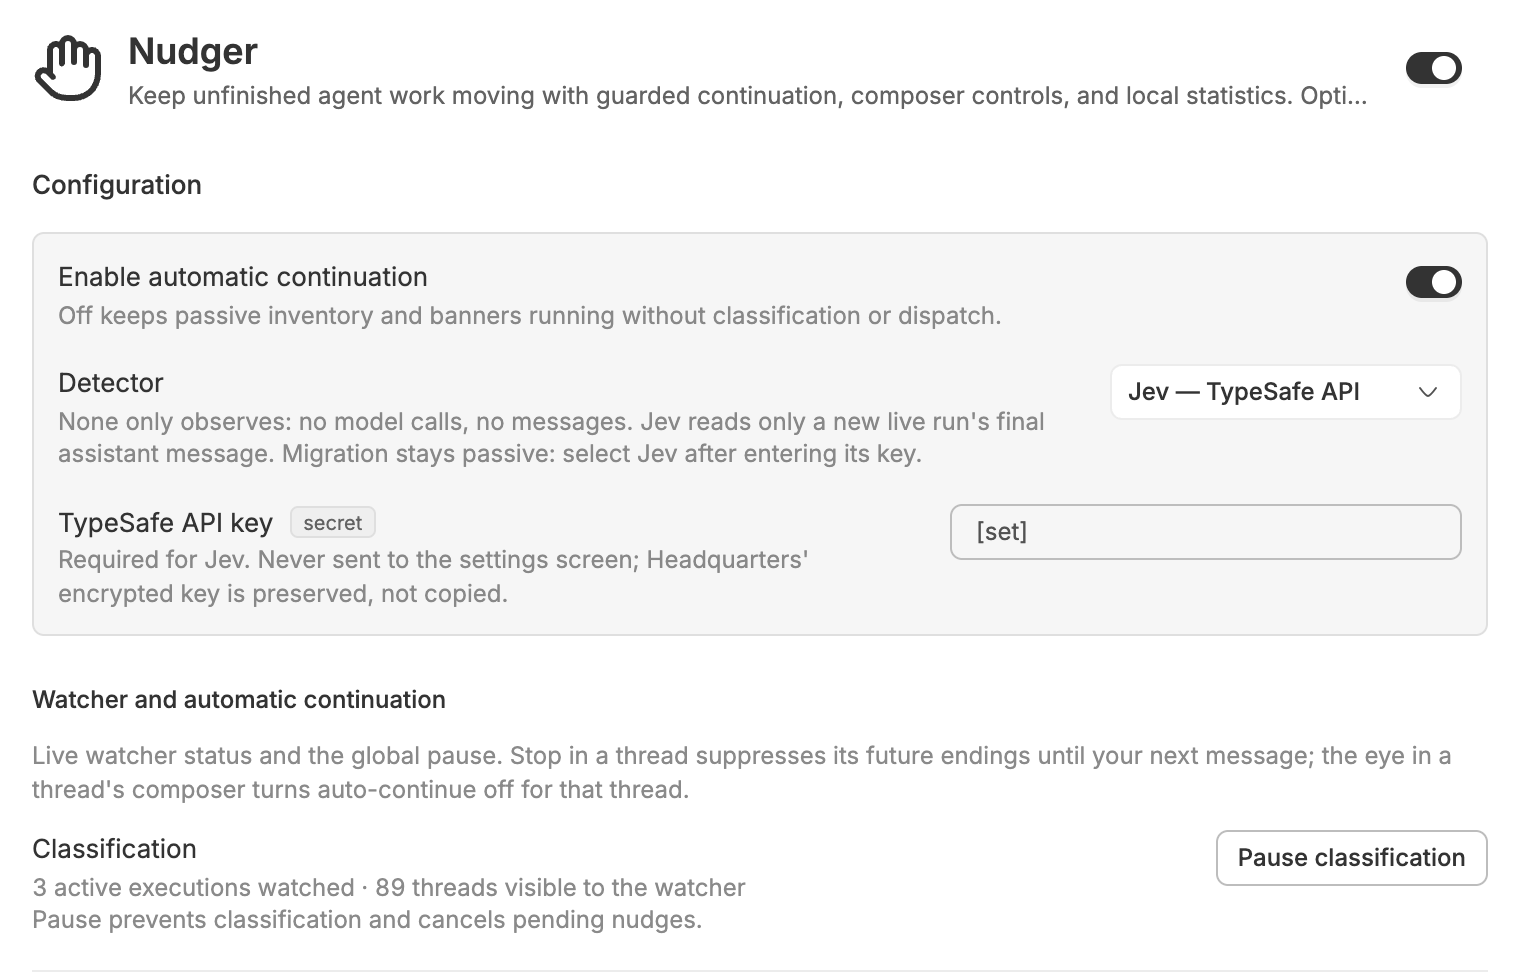
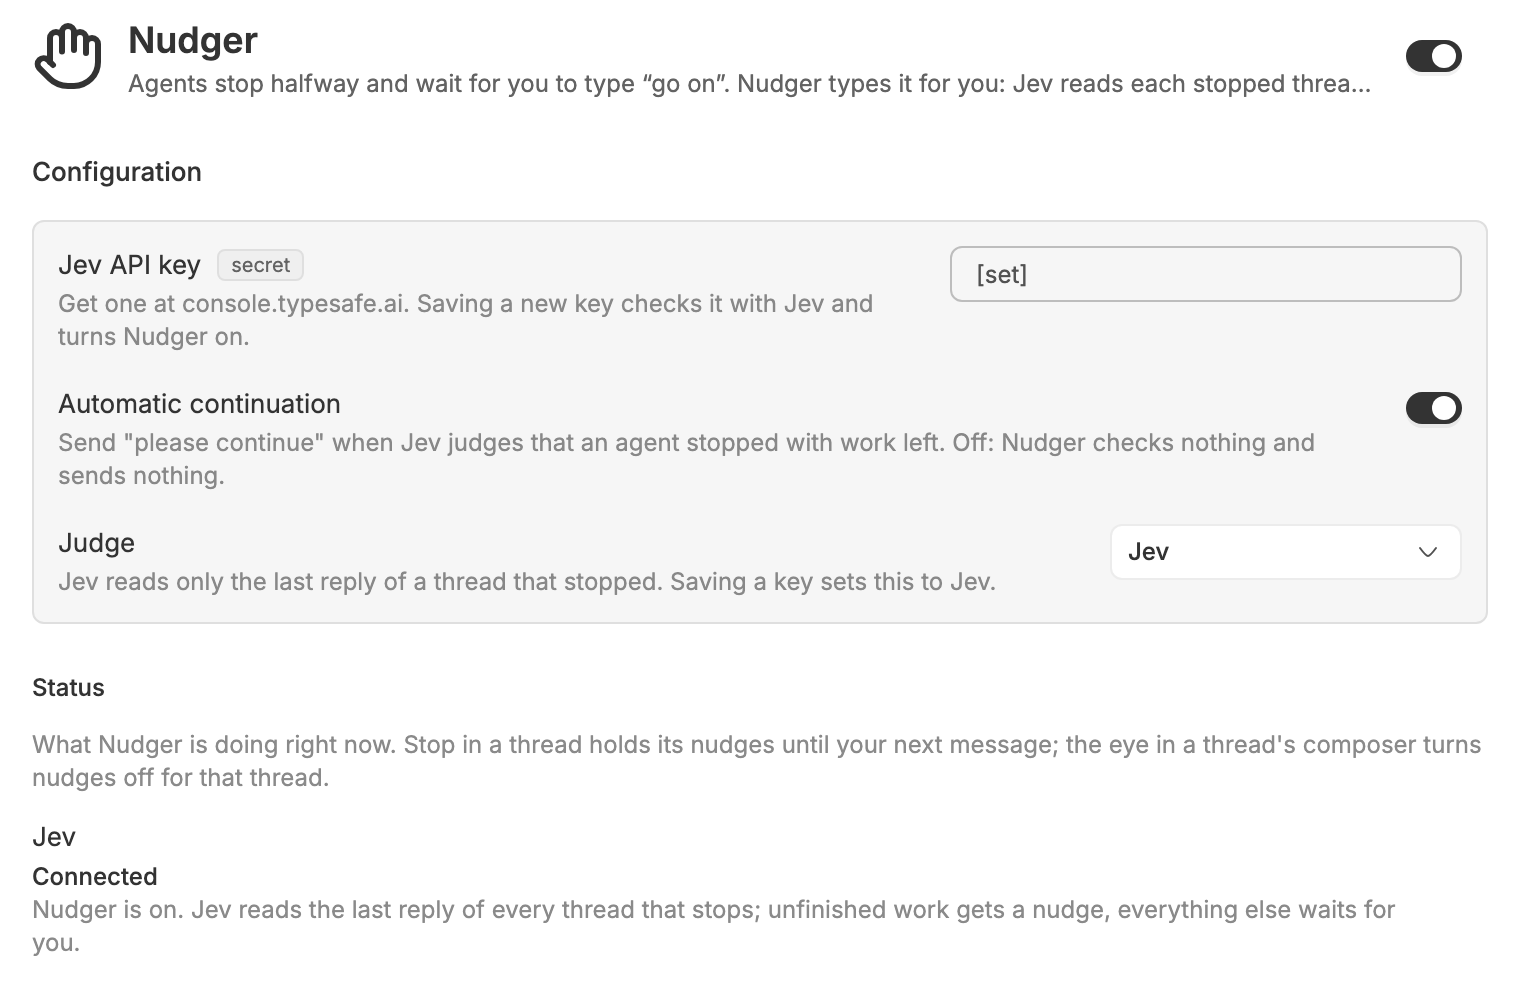
Update nudger to 0.1.1: auto-activates with a Jev key; new store text and settings screenshot

diff --git a/overview/nudger.md b/overview/nudger.md
@@ -1,34 +1,36 @@
-Watch native BB threads, see what needs attention, and optionally let an assistant continue unfinished work with guarded `please continue` messages. Nudger is standalone: Headquarters, Hermes, and a machine connection are not required.
+Your agents stop halfway. “Want me to continue?” “Next I'll wire up the tests.” Then the thread sits idle until you come back and type “go on”. Nudger types it for you, but only when the work is really unfinished.
 
-Requires BB >=0.46 and Plugin SDK >=0.6.39. Package: `bb-plugin-nudger`; installed ID: `nudger`; CLI: `bb nudger`. Source installation and developer details are in README.md.
+## What it does
 
-## Safe default: observe only
+Nudger watches every thread. When an agent stops, [Jev](https://typesafe.ai) reads the last reply and judges what kind of stop it is:
 
-The detector defaults to **None — observe only**. Inventory, composer banners, and local statistics need no API key, make no model calls, and send no automatic messages. Adding a key or importing legacy settings does not enable Jev; select it explicitly.
+- **Unfinished work** the agent can do itself: Nudger sends `please continue` after a 20-second countdown you can cancel.
+- **A real blocker**, like a missing credential or a broken service: no nudge, it goes on your list.
+- **A request for you**: permission, a decision, a review. Never continued, always shown to you.
+- **Done**: left alone.
 
-## Enable Jev (optional paid service)
+Only the first gets a nudge. Each thread's banner shows what Nudger decided, and the Nudger page lists every thread that needs you, so you see at a glance where to look. When Jev isn't sure, Nudger doesn't guess: the thread lands on that list. If the agent handed the work to a subthread, a workflow or a running build, Nudger waits for it, and checks in after 30 minutes only if nothing reports back.
 
-1. Create or sign in to **your own TypeSafe account** at [console.typesafe.ai](https://console.typesafe.ai), obtain your own API key, and arrange credits/billing there. No account, key, or credits are bundled.
-2. Open **Settings → Installed plugins → Nudger** in BB.
-3. Enter the key in the **TypeSafe API key** secret setting. Never put it in a chat or source file.
-4. Explicitly choose **Detector → Jev — TypeSafe API**. **Enable automatic continuation** must be on for classification and dispatch.
+## How it uses Jev
 
-A missing/invalid key, exhausted credits, service error, or malformed judgment does **not** trigger a blind continuation. The affected ending stays gated or becomes an error. There is no fallback detector. Only newly observed eligible live endings are checked; startup/resume do not replay a backlog.
+Jev is TypeSafe's System One model. It writes no text: it answers typed questions with a probability for every option and a confidence score. Nudger sends the last reply with five fixed questions: is anything blocking, is the work finished, does the reply ask you for something, who acts next, and what's at stake.
 
-## Controls and safety
+Nudger acts only when Jev is confident. A nudge needs at least 90% confidence that the work is unfinished and nothing blocks it, and a reply that asks you for anything is never continued. A failed call, a rejected key or an unreadable answer never becomes a blind nudge. Every decision is kept for up to 30 days with Jev's answers and the reason, so you can see why Nudger nudged or held back (`bb nudger decisions` exports them).
 
-The composer eye toggles continuation for one thread; countdown Cancel cancels one decision. Global disable keeps passive observation running. Pause classification persists and cancels pending nudges. Native Stop stays suppressive until admitted human work re-arms the thread.
+## Set up
 
-Jev checks the final assistant message as untrusted data. Requests to the operator are never automatically continued. Eligible unfinished assistant work gets a 20-second countdown. Work already running in a delegated task gets a check-in after 30 minutes, doubling for unanswered nudges. New activity cancels the timer; three unanswered nudges suppress further continuation until something else arrives.
+1. Get an API key at [console.typesafe.ai](https://console.typesafe.ai/keys).
+2. Paste it in **Settings → Installed plugins → Nudger → Jev API key**.
+3. Done. Nudger checks the key with Jev and turns itself on.
 
-Running subthreads, workflows, and compaction hold continuation. Dispatch rechecks current thread state; queued owned messages are withheld/deleted rather than sent unchecked. A model verdict cannot authorize a new assignment, permission, spend, or publication. BB's dispatch hook is not an atomic core fence for Stop/queue races; Nudger does not claim to remove that upstream limitation.
+## Your controls
+
+- The eye in a thread's composer turns nudges off for that thread; **Cancel** stops one countdown.
+- Pressing Stop holds a thread's nudges until your next message.
+- **Pause** stops all checks for a while. **Automatic continuation** turns Nudger off; it stays off until you turn it back on or save a new key.
 
 ## Privacy and cost
 
-Jev sends eligible **final assistant messages** and classification questions over HTTPS to TypeSafe (`api.typesafe.ai`), not the full thread history. Final replies may still quote sensitive data. Enable it only for data you may share externally, and review TypeSafe's own privacy, retention, and billing terms. Calls may incur charges; Nudger's cost estimate is not a bill or live credit balance.
+Jev sees only the last reply of a stopped thread, sent over HTTPS to TypeSafe, never the rest of the conversation. A reply can still quote code or secrets, so use Nudger only for work you may share with TypeSafe. TypeSafe bills Jev per input token ($0.042 per million); the Nudger page shows your estimated spend. Decisions stay in BB's local plugin storage on your machine.
 
-Local decision logs can contain message text, identifiers, judgments, and labels for up to 30 days, subject to storage caps; selected history/counts remain longer. The Stats page shows nudges, estimated Jev usage/cost, and attention items, caching displayed titles/summaries on this device for up to 7 days. JSONL exports may contain sensitive information: redact before sharing.
-
-## Optional Headquarters integration
-
-Public versioned RPC excludes Headquarters control threads and shares snapshots/history without exposing settings or keys. Legacy migration is copy-only: it never activates old timers, enables paid classification, or copies credentials. No private database access is required. Integrators import the single schema/type source from `bb-plugin-nudger/contract` (TypeScript source for `tsx`/BB bundling).
+Requires BB 0.46 or newer. Source and details: [github.com/ComicBit/bb-plugin-nudger](https://github.com/ComicBit/bb-plugin-nudger). More about Jev: [docs.typesafe.ai](https://docs.typesafe.ai/introduction).
